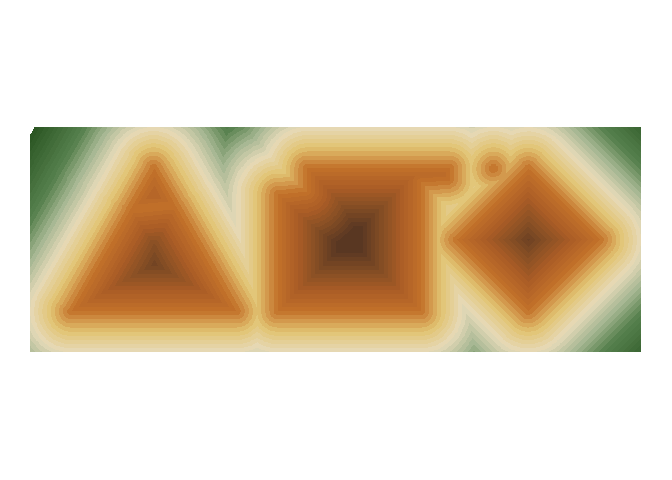
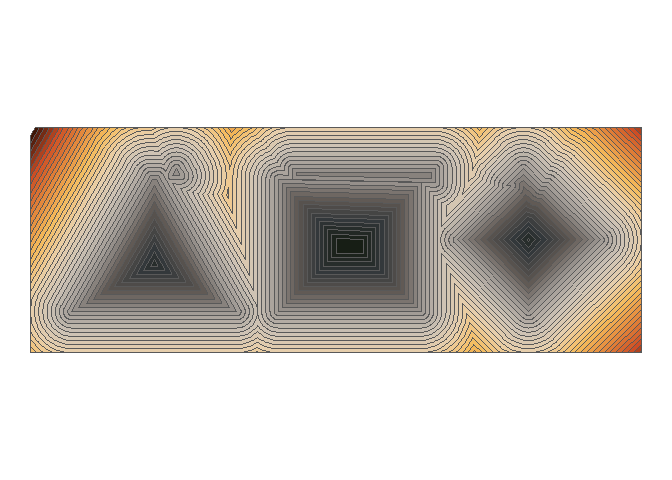
Day 9: Plants

diff --git a/2022-01-09_Plants/README.md b/2022-01-09_Plants/README.md
@@ -1,0 +1,132 @@
+
+<!-- README.md is generated from README.Rmd. Please edit that file -->
+
+# Plants
+
+<!-- badges: start -->
+<!-- badges: end -->
+
+For today’s prompt I use [Pierre
+Casadebaig’s](https://github.com/picasa) package
+[`generate`](https://github.com/picasa/generate). As explained
+[here](https://github.com/picasa/generative_examples/blob/master/R/sequence_collatz.rmd#L25),
+vegetation-like shapes can be obtained by defining a curve that maps a
+sequence of integers to segment lengths, changing the angle between
+segments by some pre-determined amount. Nodes are made of multiple
+curves, and stems are made of multiple nodes.
+
+For this piece I use the following packages:
+
+``` r
+library(dplyr) # A Grammar of Data Manipulation
+#> 
+#> Attaching package: 'dplyr'
+#> The following objects are masked from 'package:stats':
+#> 
+#>     filter, lag
+#> The following objects are masked from 'package:base':
+#> 
+#>     intersect, setdiff, setequal, union
+#Sys.unsetenv("GITHUB_PAT")
+#renv::install("picasa/generate")
+library(generate) # Might Generate Rtistry
+library(ggforce) # Accelerating 'ggplot2'
+#> Loading required package: ggplot2
+library(ggplot2) # Create Elegant Data Visualisations Using the Grammar of Graphics
+library(glue) # Interpreted String Literals # Interpreted String Literals
+library(MexBrewer) # Color Palettes Inspired by Works of Mexican Muralists # Color Palettes Inspired by Works of Mexican Muralists 
+```
+
+## Set random seed
+
+``` r
+seed <- sample.int(1000000000, 1)
+```
+
+## Generate leaves
+
+``` r
+set.seed(seed)
+# plot a single node with dense polygons
+p_node = 300 + sample.int(500, 1)
+p_imin = 15 + sample.int(20, 1)
+p_imax = 55 + sample.int(40, 1)
+p_lmax = runif(1, 700, 1300)
+p_amin = runif(1, -30, -15)
+p_amax = runif(1, 15, 30)
+p_shift = 4
+p_width = c(0, 10)
+p_shape <- sample(c("spiral", "wave"), 1)
+p_render = "spline"
+
+data_dense <- gen_node(
+  n = p_node,
+  imin = p_imin,
+  imax = p_imax,
+  lmax = p_lmax,
+  end = 1,
+  amin = p_amin,
+  amax = p_amax,
+  shift = c(0, 20),
+  width = c(0, 15),
+  scale = 1,
+  shape = "spiral",
+  method = p_render,
+  seed = seed)
+```
+
+## Select color palette
+
+``` r
+set.seed(seed)
+
+col_palette_name <- sample(c("Alacena", "Atentado", "Aurora", "Concha", "Frida", "Huida", "Maiz", "Ofrenda", "Revolucion", "Ronda", "Taurus1", "Taurus2", "Tierra", "Vendedora"), 1)
+
+col_palette <- mex.brewer(col_palette_name)
+```
+
+Generate random numbers for coloring the leaves:
+
+``` r
+# Create random variable to add colors
+col_table <- data.frame(id = 1:max(data_dense$id)) %>%
+  mutate(color = runif(max(id)))
+
+# Join to data table
+data_dense_plus <- data_dense %>%
+  left_join(col_table,
+            by = c("id"))
+```
+
+## Render the image
+
+``` r
+data_dense_plus %>%
+  ggplot(aes(x,
+             y,
+             group = id)) +
+  geom_shape(aes(fill = color),
+             color = sample(c("black", 
+                                     "white"), 
+                                     1),
+             linewidth = 0.5, 
+             radius = grid::unit(0, 'pt')) +
+  coord_fixed(xlim = c(-200, 200),
+              ylim = c(100,800)) +
+  scale_fill_gradientn(colors = col_palette) +
+  theme_void() +
+  theme(panel.background = element_rect(fill = sample(col_palette, 1)),
+        legend.position = "none",
+        plot.margin = rep(grid::unit(10, "pt"), 4))
+```
+
+![](README_files/figure-gfm/unnamed-chunk-6-1.png)<!-- -->
+
+``` r
+
+ggsave(filename = glue::glue("outputs/plant-{seed}.png"),
+       height = 7,
+       width = 4)
+```
+
+<img src="outputs/plant-85432422.png" width="500px" />

diff --git a/2022-01-08_Signed-Distance-Functions/README.md b/2022-01-08_Signed-Distance-Functions/README.md
@@ -57,7 +57,6 @@ container_polygon <- matrix(c(0, 1,
 
 # Convert coordinates to polygons and then to simple features
 container_polygon <- data.frame(id = 1,
-                                r = NA,
                                 geometry = st_polygon(list(container_polygon)) |> 
                                   st_sfc()) |> 
   st_as_sf()
@@ -278,11 +277,11 @@ set.seed(seed = seed)
 
 ggplot() + 
   geom_sf(data = sdf |> st_intersection(container_polygon),
-          aes(fill = b),
-          color = NA) +
+          aes(fill = b)) +
   #geom_sf(data = polygons,
   #        color = "black",
   #        fill = NA) + 
+  #scale_fill_manual(values = col_palette) +
   scale_fill_mex_c(col_palette_name, direction = sample(-1, 1, 1)) +
   theme_void() + 
   theme(legend.position = "none")
@@ -296,4 +295,4 @@ ggsave(filename = glue::glue("outputs/sdf-{seed}.png"),
 #> Saving 7 x 5 in image
 ```
 
-<img src="outputs/sdf-52153332.png" width="500px" />
+<img src="outputs/sdf-57695693.png" width="500px" />

diff --git a/README.md b/README.md
@@ -64,3 +64,10 @@ in the Sky provided by package
 Colorful signed distance functions of three split regular polygons.
 
 <img src="2022-01-08_Signed-Distance-Functions/outputs/sdf-88696514.png" width="500px" />
+
+## Day 8: [Plants](https://github.com/paezha/genuary2023/tree/master/2022-01-09_Plants)
+
+[Pierre Casadebaig’s](https://casadebaig.netlify.app/) system for
+generative plants.
+
+<img src="2022-01-09_Plants/outputs/plant-24912549.png" width="500px" />
